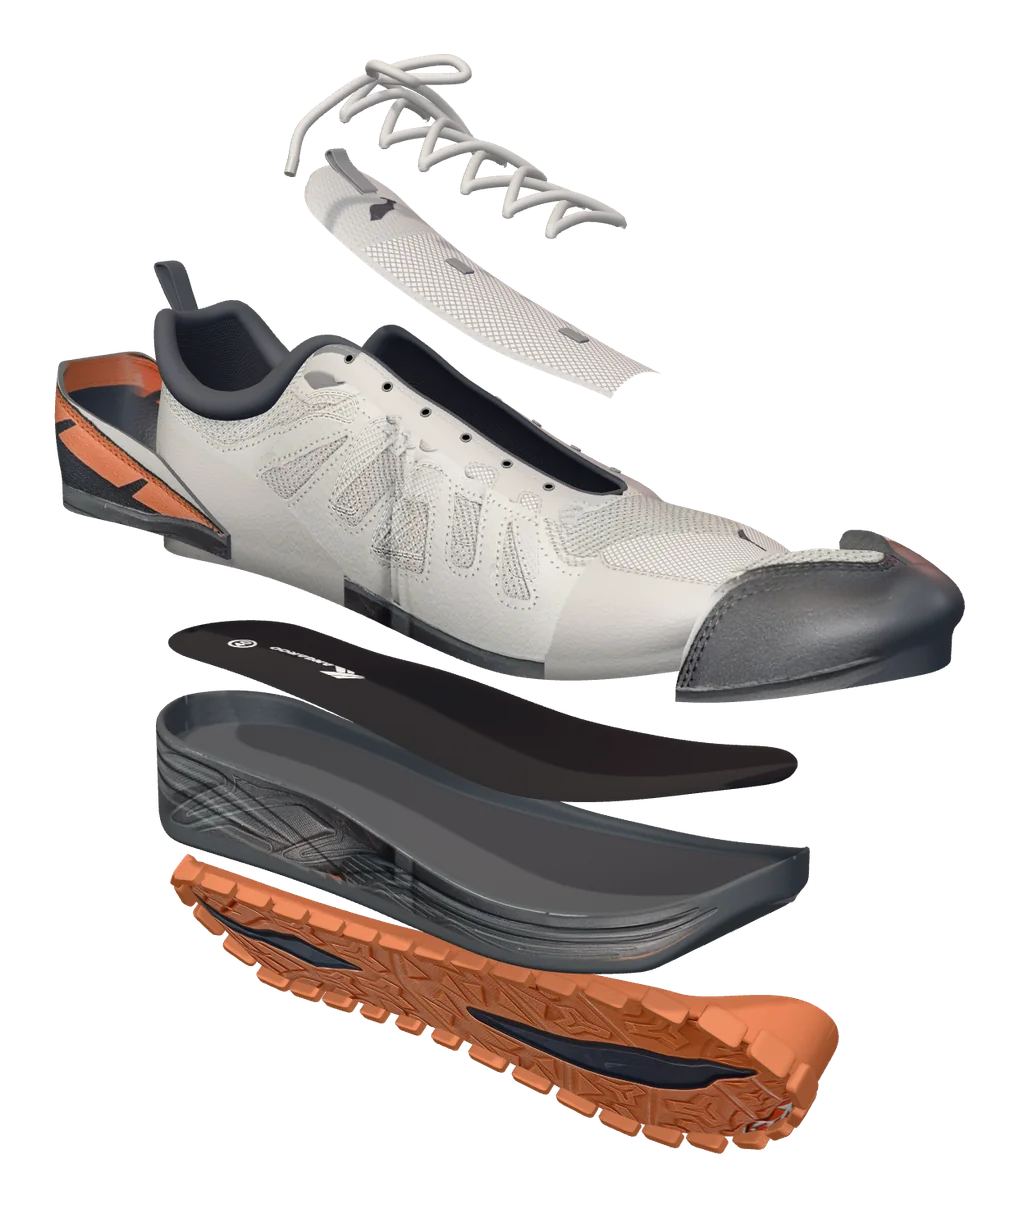
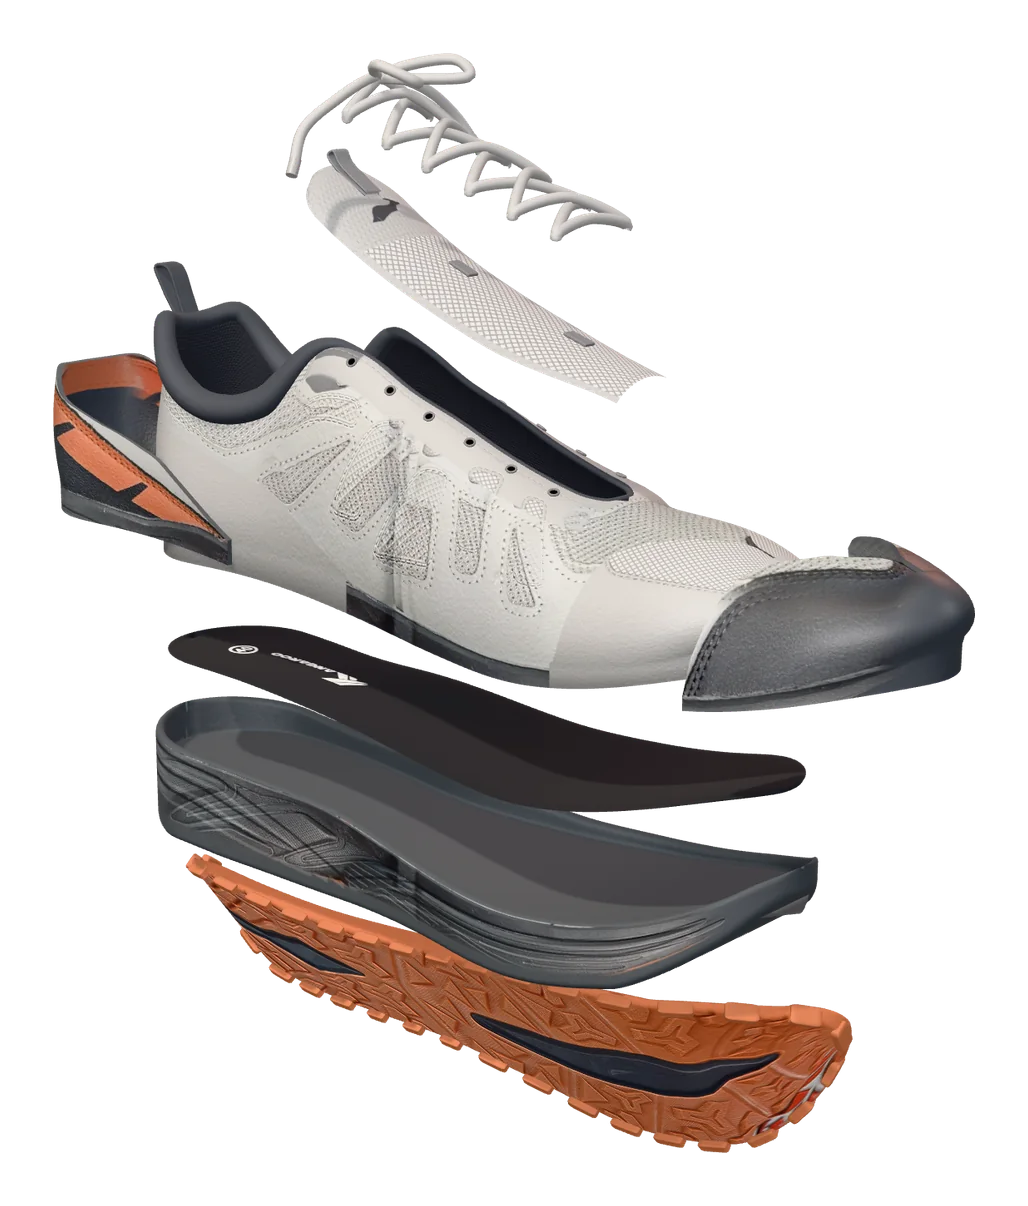
Démo tlemceni : semelle recalée sur la photo réelle (plus fine, galbée)
- Semelle extérieure affinée (environ 5 mm avec crampons à l'avant,
  8 mm au talon) et crampons de bord plus petits
- Dessous galbé comme le modèle : pointe relevée, talon arrondi
- Sol recalé sur le bas des crampons de la photo : la semelle
  intermédiaire perd 2 mm, la tige garde sa taille
- Textures photo, rendus et image de partage refaits

Claude-Session: https://claude.ai/code/session_0119pnVK6Q9DTSQBA1s2pKvM

diff --git a/sites/tlemceni/sneaker.js b/sites/tlemceni/sneaker.js
@@ -39,9 +39,10 @@ function curve1(pts) {
 const L = 2.9, X0 = -1.45, X1 = 1.45;
 const X_BACK = -1.36, X_THROAT = 0.7, X_RIDGE_END = 1.3;
 const RIM = 0.045; // épaisseur du rebord de la semelle intermédiaire
-// épaisseur de la semelle extérieure (hors crampons) : elle remonte sur la pointe et un peu au talon
-const outT = (x) => 0.06 + 0.2 * smooth(1.1, 1.47, x) + 0.04 * smooth(-1.2, -1.45, x);
-const LUG = 0.045; // hauteur des crampons
+// Semelle extérieure relevée sur la photo de profil du modèle : épaisseur (hors crampons),
+// fine partout, un peu plus épaisse sous la voûte.
+const outT = curve1([[-1.45, 0.03], [-1.3, 0.032], [-1.1, 0.05], [-0.95, 0.057], [-0.45, 0.062], [0.1, 0.065], [0.4, 0.04], [0.6, 0.03], [0.9, 0.03], [1.13, 0.03], [1.29, 0.042], [1.45, 0.055]]);
+const LUG = 0.025; // hauteur des crampons
 
 // demi-largeurs de la semelle (avant arrondi du talon et de la pointe)
 const WL = curve1([[-1.45, 0.35], [-1.1, 0.36], [-0.6, 0.35], [-0.2, 0.37], [0.2, 0.42], [0.55, 0.455], [0.85, 0.44], [1.1, 0.39], [1.3, 0.33], [1.45, 0.28]]);
@@ -65,8 +66,10 @@ function halfW(x, side, inset = 0) {
 }
 
 const spring = (x) => 0.14 * smooth(0.25, 1.45, x) ** 2; // la pointe se relève
-const bevel = (x) => 0.05 * smooth(-1.05, -1.45, x) ** 2; // biseau du talon
-const footbed = (x) => lerp(0.37, 0.24, smooth(-0.95, 0.65, x)); // 13 mm de drop
+// galbe du dessous en plus de la cambrure : talon arrondi et pointe relevée (semelle « rocker »)
+const ROCK = curve1([[-1.45, 0.2], [-1.4, 0.135], [-1.34, 0.1], [-1.28, 0.074], [-1.2, 0.05], [-1.1, 0.038], [-1.0, 0.026], [-0.9, 0.016], [-0.7, 0.006], [-0.5, 0.001], [-0.35, 0], [0.9, 0], [1.0, 0], [1.1, 0.025], [1.2, 0.06], [1.26, 0.088], [1.32, 0.125], [1.38, 0.18], [1.45, 0.24]]);
+const bevel = (x) => Math.max(0, ROCK(x));
+const footbed = (x) => lerp(0.35, 0.22, smooth(-0.95, 0.65, x)); // 13 mm de drop
 const RIM_L = curve1([[-1.45, 0.15], [-1.2, 0.12], [-1.0, 0.1], [-0.8, 0.088], [-0.6, 0.089], [-0.3, 0.1], [-0.1, 0.088], [0.1, 0.074], [0.3, 0.061], [0.5, 0.055], [0.7, 0.05], [1.0, 0.043], [1.1, 0.045], [1.2, 0.058], [1.3, 0.087], [1.38, 0.128], [1.45, 0.16]]);
 const RIM_M = curve1([[-1.45, 0.15], [-1.2, 0.12], [-1.0, 0.1], [-0.8, 0.09], [-0.6, 0.096], [-0.3, 0.108], [-0.1, 0.095], [0.1, 0.08], [0.3, 0.064], [0.5, 0.056], [0.7, 0.05], [1.0, 0.043], [1.1, 0.045], [1.2, 0.058], [1.3, 0.087], [1.38, 0.128], [1.45, 0.16]]);
 const rimY = (x, side) => footbed(x) + (side > 0 ? RIM_L(x) : RIM_M(x));
@@ -74,8 +77,8 @@ const rimY = (x, side) => footbed(x) + (side > 0 ? RIM_L(x) : RIM_M(x));
 // ouverture du chaussant : demi-largeur, hauteur du bord ; arête du dessus de pied.
 // Hauteurs relevées sur la photo de profil du modèle (col haut au talon, laçage long).
 const OW = curve1([[-1.36, 0.25], [-1.1, 0.27], [-0.85, 0.262], [-0.6, 0.205], [-0.4, 0.155], [0, 0.138], [0.3, 0.128], [0.52, 0.12], [0.7, 0.112]]);
-const OY = curve1([[-1.36, 1.2], [-1.3, 1.225], [-1.25, 1.155], [-1.2, 1.08], [-1.1, 0.993], [-1.0, 0.957], [-0.9, 0.953], [-0.8, 0.97], [-0.7, 1.018], [-0.6, 1.13], [-0.52, 1.2], [-0.45, 1.222], [-0.3, 1.186], [-0.1, 1.085], [0.1, 1.008], [0.3, 0.921], [0.5, 0.849], [0.7, 0.785]]);
-const RY = curve1([[0.7, 0.785], [0.8, 0.753], [0.9, 0.728], [1.0, 0.7], [1.1, 0.665], [1.2, 0.618], [1.3, 0.565]]);
+const OY = curve1([[-1.36, 1.18], [-1.3, 1.205], [-1.25, 1.135], [-1.2, 1.06], [-1.1, 0.973], [-1.0, 0.937], [-0.9, 0.933], [-0.8, 0.95], [-0.7, 0.998], [-0.6, 1.11], [-0.52, 1.18], [-0.45, 1.202], [-0.3, 1.166], [-0.1, 1.065], [0.1, 0.988], [0.3, 0.901], [0.5, 0.829], [0.7, 0.765]]);
+const RY = curve1([[0.7, 0.765], [0.8, 0.733], [0.9, 0.708], [1.0, 0.68], [1.1, 0.645], [1.2, 0.598], [1.3, 0.545]]);
 function openW(x) {
   const a = X_BACK, b = X_THROAT;
   if (x <= a || x >= b) return 0;
@@ -1319,15 +1322,17 @@ export function createSneaker({ quality = 1 } = {}) {
       const tx = q.x - prev.x, tz = q.z - prev.z, l = Math.hypot(tx, tz) || 1;
       const nx = -tz / l, nz = tx / l; // normale extérieure
       const arch = p.z < 0 && p.x > -0.62 && p.x < -0.08 ? 0.75 : 1;
-      // part du crampon qui remonte sur le flanc : davantage au talon et à la pointe
-      const up = 0.018 + 0.05 * Math.max(smooth(-0.9, -1.4, p.x), smooth(0.9, 1.4, p.x));
-      edge.push({ x: p.x - nx * 0.006, y: bottomY(p.x) - LUG + (LUG + up) / 2, z: p.z - nz * 0.006, ry: -Math.atan2(tz, tx), s: [0.158 * arch, LUG + up, 0.05] });
+      // part du crampon qui remonte sur le flanc : un peu plus au talon et à la pointe
+      const up = 0.012 + 0.03 * Math.max(smooth(-0.9, -1.4, p.x), smooth(0.9, 1.4, p.x));
+      // incliné comme le dessous (talon et pointe relevés)
+      const rz = Math.atan(((bottomY(p.x + 0.01) - bottomY(p.x - 0.01)) / 0.02) * (tx / l));
+      edge.push({ x: p.x - nx * 0.014, y: bottomY(p.x) - LUG + (LUG + up) / 2, z: p.z - nz * 0.014, ry: -Math.atan2(tz, tx), rz, s: [0.12 * arch, LUG + up, 0.04] });
     }
     const geo = keep(new RoundedBoxGeometry(1, 1, 1, 2, 0.2));
     const m = new THREE.InstancedMesh(geo, matLug, edge.length);
     edge.forEach((l, i) => {
       o.position.set(l.x, l.y, l.z);
-      o.rotation.set(0, l.ry, 0);
+      o.rotation.set(0, l.ry, l.rz, 'YXZ');
       o.scale.set(...l.s);
       o.updateMatrix();
       m.setMatrixAt(i, o.matrix);

diff --git a/sites/tlemceni/index.html b/sites/tlemceni/index.html
@@ -95,8 +95,8 @@
       </div>
       <canvas class="x__canvas" id="scene" aria-hidden="true"></canvas>
       <div class="x__fallback" id="fallback" aria-hidden="true">
-        <img src="img/basket.webp" alt="" data-v="assembled" width="1140" height="659">
-        <img src="img/eclate.webp" alt="" data-v="exploded" width="1019" height="1208">
+        <img src="img/basket.webp" alt="" data-v="assembled" width="1140" height="643">
+        <img src="img/eclate.webp" alt="" data-v="exploded" width="1028" height="1206">
       </div>
       <svg class="x__lines" id="lines" aria-hidden="true"><path id="line" d=""/><circle id="dot" r="5"/><circle id="ring" r="14"/></svg>
       <div class="x__tags" id="tags" aria-hidden="true"></div>
@@ -208,7 +208,7 @@
       <div class="univers__track">
         <article class="uni uni--shoes">
           <div class="uni__media">
-            <img class="uni__hero" data-img="u1.hero" src="img/r-runner-trail.webp" alt="Basket Trail 13 grise et orange, crampons orange" loading="lazy" width="1336" height="794">
+            <img class="uni__hero" data-img="u1.hero" src="img/r-runner-trail.webp" alt="Basket Trail 13 grise et orange, crampons orange" loading="lazy" width="1336" height="775">
             <div class="uni__minis">
               <img data-img="u1.m1" class="uni__real" src="img/modele-reel.webp" alt="Le modèle en boutique (photo)" loading="lazy" width="560" height="560">
               <img data-img="u1.m2" src="img/r-sandale.webp" alt="Sandale en cuir" loading="lazy" width="648" height="453">
